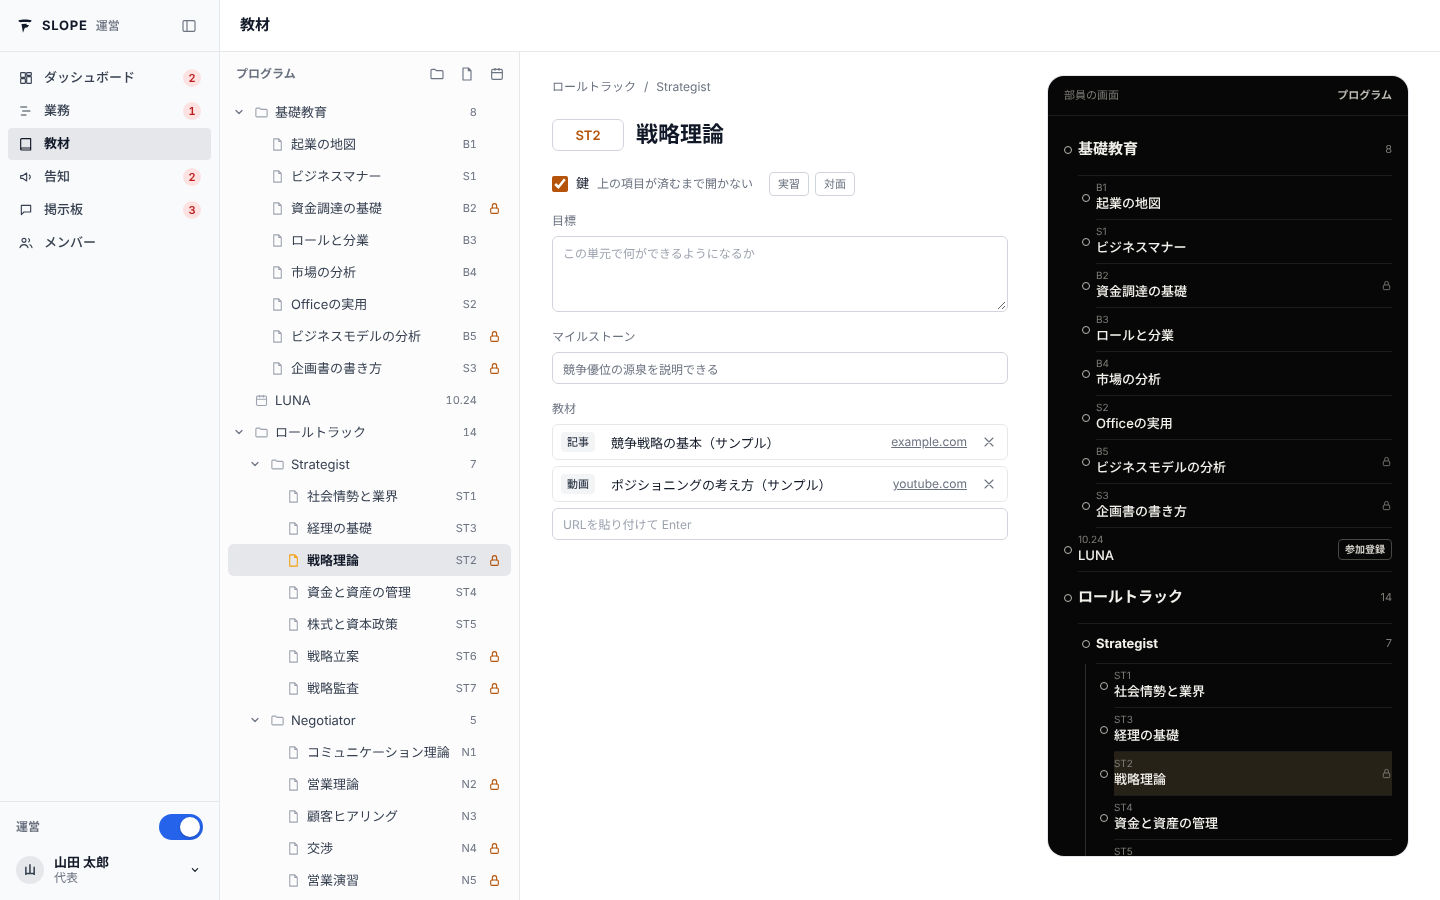
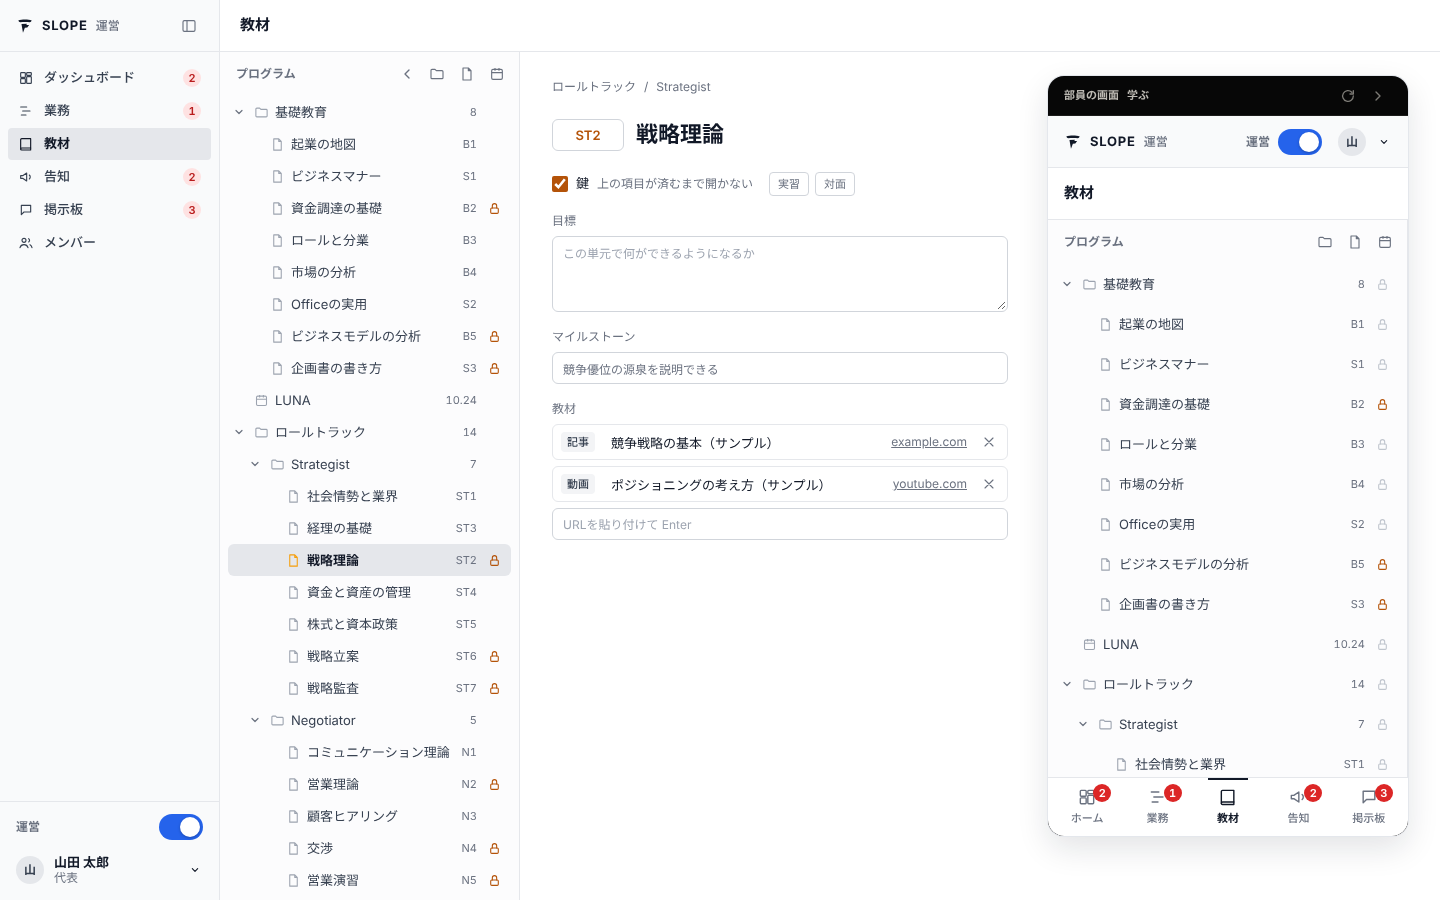
参加登録の人数：学ぶのイベントは教材のツリーと中身に表示。業務のイベントは入れ子の中のイベントも数える
Claude-Session: https://claude.ai/code/session_013Pyg1p62YUPGfjQJoY7ZbK

Changed region(s): [[0.7188, 0.0933, 1.0, 0.9644]]

diff --git a/admin.html b/admin.html
@@ -4,7 +4,7 @@
 <script>
 // 新しい版が出ていたら、キャッシュを避けて読み直す（GitHub Pages は最大10分キャッシュするため）
 (function () {
-  var VER = 'ce73de3995', FILE = 'admin.ver';
+  var VER = '8473eb04aa', FILE = 'admin.ver';
   function check() {
     fetch(FILE + '?t=' + Date.now(), { cache: 'no-store' }).then(function (r) { return r.ok ? r.text() : ''; }).then(function (v) {
       v = (v || '').trim(); if (!v || v === VER) return;
@@ -1784,6 +1784,7 @@ body.mvin .mvline{display:none !important}
 .p2pvopen:hover{width:42px;color:#F3F1EC !important}
 .p2pvopen svg{width:16px !important;height:16px !important;flex:none}
 .p2pvopen span{writing-mode:vertical-rl;line-height:1}
+.p2reg{display:flex;align-items:baseline;gap:6px;font-size:12px;color:var(--muted)}.p2reg b{font-size:22px;color:var(--text);font-weight:700}
 
 /* ===== 本番 ===== */
 [data-act="reset"]{display:none !important}
@@ -5913,7 +5914,7 @@ function p2Rows(a, d) {
   return a.map(function (n) {
     var on = UI.psel === n.id, open = n.k === 'f' && n.open !== false, nm = p2Name(n);
     var name = UI.pren === n.id ? '<input class="p2ren" data-p2ren="' + n.id + '" value="' + esc(nm) + '" aria-label="名前" autocomplete="off">' : '<span class="p2n">' + (esc(nm) || '<i class="dim">名前なし</i>') + '</span>';
-    var meta = n.k === 'u' ? '<span class="p2m num">' + esc(n.c) + '</span>' : (n.k === 'e' && n.from ? '<span class="p2m num">' + esc(n.from.slice(5).replace('-', '.')) + '</span>' : (n.k === 'f' ? '<span class="p2m num">' + p2Leaves(n) + '</span>' : ''));
+    var meta = n.k === 'u' ? '<span class="p2m num">' + esc(n.c) + '</span>' : (n.k === 'e' ? '<span class="p2m num">' + (n.from ? esc(n.from.slice(5).replace('-', '.')) : '') + ((S.joins || {})['pe:' + n.id] ? ' · ' + S.joins['pe:' + n.id] + '人' : '') + '</span>' : (n.k === 'f' ? '<span class="p2m num">' + p2Leaves(n) + '</span>' : ''));
     return '<div class="p2r' + (on ? ' on' : '') + (n.out ? ' out' : '') + '" data-p2="' + n.id + '" style="--d:' + d + '" draggable="' + (!n.out) + '" tabindex="' + (on || (!UI.psel && d === 0 && a.indexOf(n) === 0) ? 0 : -1) + '" role="treeitem" aria-selected="' + on + '"' + (n.k === 'f' ? ' aria-expanded="' + open + '"' : '') + '>' +
       (n.k === 'f' ? '<button class="p2c" data-p2a="tog" tabindex="-1" aria-label="' + (open ? '畳む' : '開く') + '" style="transform:rotate(' + (open ? 90 : 0) + 'deg)">' + PI2.chev + '</button>' : '<span class="p2c"></span>') +
       PI2[n.k] + name + meta +
@@ -5936,7 +5937,8 @@ function p2Editor() {
   if (n.k === 'e') return head + '<input class="p2title" data-p2f="name" value="' + esc(n.name) + '" placeholder="イベント名" aria-label="イベント名" autocomplete="off">' + lock +
     '<div class="p2grid"><label>開始<input type="date" class="input" data-p2f="from" value="' + esc(n.from || '') + '"></label><label>終了<input type="date" class="input" data-p2f="to" value="' + esc(n.to || '') + '"></label></div>' +
     '<label class="p2fld">部員がやること<textarea class="input" data-p2f="todo" rows="4" placeholder="例：事業案を1つ持ってくる">' + esc(n.todo || '') + '</textarea></label>' +
-    '<label class="p2fld">リンク<input class="input" data-p2f="link" value="' + esc(n.link || '') + '" placeholder="https://" autocomplete="off"></label>';
+    '<label class="p2fld">リンク<input class="input" data-p2f="link" value="' + esc(n.link || '') + '" placeholder="https://" autocomplete="off"></label>' +
+    '<div class="p2reg"><span>参加登録</span><b class="num">' + ((S.joins || {})['pe:' + n.id] || 0) + '</b><span>人</span></div>';
   var t = p2Track(n.t), u = p2Unit(n); if (!t || !u) return '';
   var d = unitData(t, u.code);
   var mats = (d.materials || []).map(function (m, i) { return '<div class="p2mat"><span class="tag">' + esc(m.type || '記事') + '</span><input class="cell" data-p2m="' + i + '" value="' + esc(m.memo || '') + '" placeholder="' + esc(m.url) + '" aria-label="タイトル" autocomplete="off"><a href="' + esc(m.url) + '" target="_blank" rel="noopener">' + esc(host(m.url)) + '</a><button class="ib" data-p2a="mdel" data-i="' + i + '" aria-label="削除">' + ic('x') + '</button></div>'; }).join('');
@@ -6677,7 +6679,8 @@ async function loadAll() {
   SYNC.profiles = {}; S.members.forEach(function (m) { SYNC.profiles[m.id] = profKey(m); });
   S.projects = buildTree(res[1].data || []);
   var joins = {}; (res[5].data || []).forEach(function (r) { joins[r.item_id] = (joins[r.item_id] || 0) + 1; });
-  S.projects.forEach(function (p) { p.reg = joins[p.id] || 0; });
+  S.joins = joins; // 参加登録の数（業務のイベントは node の id、学ぶのイベントは 'pe:' + id）
+  (function walk(a) { a.forEach(function (n) { if (n.kind === 'event') n.reg = joins[n.id] || 0; walk(n.tasks || []); }); })(S.projects);
   itemsIn(res[3].data || [], res[4].data || []);
   var base = rowsFromTree(); SYNC.nodes = {}; for (var k in base) SYNC.nodes[k] = JSON.stringify(base[k]);
   S.notifs = (res[2].data || []).map(function (x) { return { to: x.to_id, text: x.text, sub: x.sub, at: fmtAt(x.created_at) }; });

diff --git a/src/mock/admin-mock.html b/src/mock/admin-mock.html
@@ -1768,6 +1768,7 @@ body.mvin .mvline{display:none !important}
 .p2pvopen:hover{width:42px;color:#F3F1EC !important}
 .p2pvopen svg{width:16px !important;height:16px !important;flex:none}
 .p2pvopen span{writing-mode:vertical-rl;line-height:1}
+.p2reg{display:flex;align-items:baseline;gap:6px;font-size:12px;color:var(--muted)}.p2reg b{font-size:22px;color:var(--text);font-weight:700}
 </style>
 </head>
 <body>
@@ -5876,7 +5877,7 @@ function p2Rows(a, d) {
   return a.map(function (n) {
     var on = UI.psel === n.id, open = n.k === 'f' && n.open !== false, nm = p2Name(n);
     var name = UI.pren === n.id ? '<input class="p2ren" data-p2ren="' + n.id + '" value="' + esc(nm) + '" aria-label="名前" autocomplete="off">' : '<span class="p2n">' + (esc(nm) || '<i class="dim">名前なし</i>') + '</span>';
-    var meta = n.k === 'u' ? '<span class="p2m num">' + esc(n.c) + '</span>' : (n.k === 'e' && n.from ? '<span class="p2m num">' + esc(n.from.slice(5).replace('-', '.')) + '</span>' : (n.k === 'f' ? '<span class="p2m num">' + p2Leaves(n) + '</span>' : ''));
+    var meta = n.k === 'u' ? '<span class="p2m num">' + esc(n.c) + '</span>' : (n.k === 'e' ? '<span class="p2m num">' + (n.from ? esc(n.from.slice(5).replace('-', '.')) : '') + ((S.joins || {})['pe:' + n.id] ? ' · ' + S.joins['pe:' + n.id] + '人' : '') + '</span>' : (n.k === 'f' ? '<span class="p2m num">' + p2Leaves(n) + '</span>' : ''));
     return '<div class="p2r' + (on ? ' on' : '') + (n.out ? ' out' : '') + '" data-p2="' + n.id + '" style="--d:' + d + '" draggable="' + (!n.out) + '" tabindex="' + (on || (!UI.psel && d === 0 && a.indexOf(n) === 0) ? 0 : -1) + '" role="treeitem" aria-selected="' + on + '"' + (n.k === 'f' ? ' aria-expanded="' + open + '"' : '') + '>' +
       (n.k === 'f' ? '<button class="p2c" data-p2a="tog" tabindex="-1" aria-label="' + (open ? '畳む' : '開く') + '" style="transform:rotate(' + (open ? 90 : 0) + 'deg)">' + PI2.chev + '</button>' : '<span class="p2c"></span>') +
       PI2[n.k] + name + meta +
@@ -5899,7 +5900,8 @@ function p2Editor() {
   if (n.k === 'e') return head + '<input class="p2title" data-p2f="name" value="' + esc(n.name) + '" placeholder="イベント名" aria-label="イベント名" autocomplete="off">' + lock +
     '<div class="p2grid"><label>開始<input type="date" class="input" data-p2f="from" value="' + esc(n.from || '') + '"></label><label>終了<input type="date" class="input" data-p2f="to" value="' + esc(n.to || '') + '"></label></div>' +
     '<label class="p2fld">部員がやること<textarea class="input" data-p2f="todo" rows="4" placeholder="例：事業案を1つ持ってくる">' + esc(n.todo || '') + '</textarea></label>' +
-    '<label class="p2fld">リンク<input class="input" data-p2f="link" value="' + esc(n.link || '') + '" placeholder="https://" autocomplete="off"></label>';
+    '<label class="p2fld">リンク<input class="input" data-p2f="link" value="' + esc(n.link || '') + '" placeholder="https://" autocomplete="off"></label>' +
+    '<div class="p2reg"><span>参加登録</span><b class="num">' + ((S.joins || {})['pe:' + n.id] || 0) + '</b><span>人</span></div>';
   var t = p2Track(n.t), u = p2Unit(n); if (!t || !u) return '';
   var d = unitData(t, u.code);
   var mats = (d.materials || []).map(function (m, i) { return '<div class="p2mat"><span class="tag">' + esc(m.type || '記事') + '</span><input class="cell" data-p2m="' + i + '" value="' + esc(m.memo || '') + '" placeholder="' + esc(m.url) + '" aria-label="タイトル" autocomplete="off"><a href="' + esc(m.url) + '" target="_blank" rel="noopener">' + esc(host(m.url)) + '</a><button class="ib" data-p2a="mdel" data-i="' + i + '" aria-label="削除">' + ic('x') + '</button></div>'; }).join('');

diff --git a/src/prod.js b/src/prod.js
@@ -80,7 +80,8 @@ async function loadAll() {
   SYNC.profiles = {}; S.members.forEach(function (m) { SYNC.profiles[m.id] = profKey(m); });
   S.projects = buildTree(res[1].data || []);
   var joins = {}; (res[5].data || []).forEach(function (r) { joins[r.item_id] = (joins[r.item_id] || 0) + 1; });
-  S.projects.forEach(function (p) { p.reg = joins[p.id] || 0; });
+  S.joins = joins; // 参加登録の数（業務のイベントは node の id、学ぶのイベントは 'pe:' + id）
+  (function walk(a) { a.forEach(function (n) { if (n.kind === 'event') n.reg = joins[n.id] || 0; walk(n.tasks || []); }); })(S.projects);
   itemsIn(res[3].data || [], res[4].data || []);
   var base = rowsFromTree(); SYNC.nodes = {}; for (var k in base) SYNC.nodes[k] = JSON.stringify(base[k]);
   S.notifs = (res[2].data || []).map(function (x) { return { to: x.to_id, text: x.text, sub: x.sub, at: fmtAt(x.created_at) }; });
